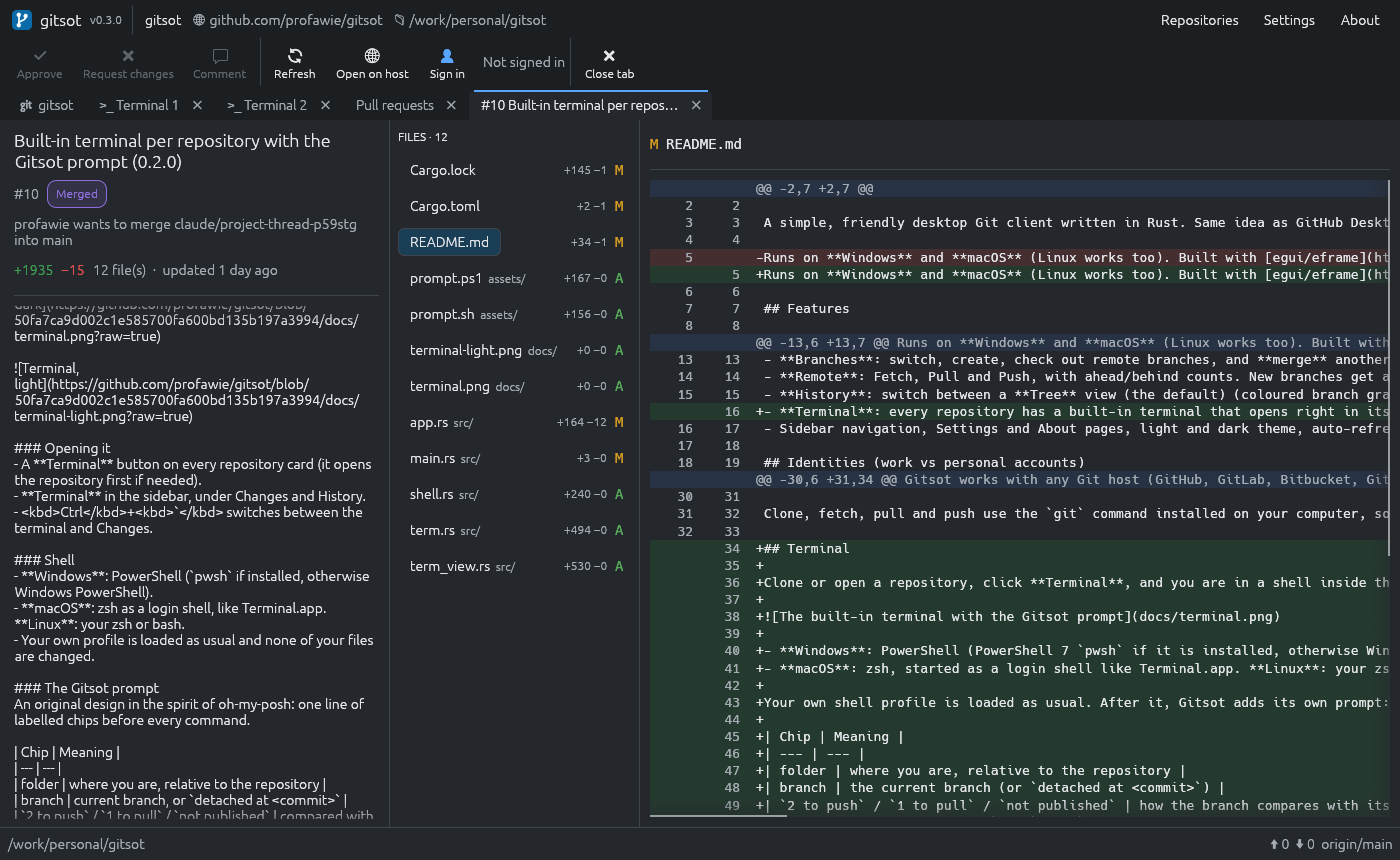
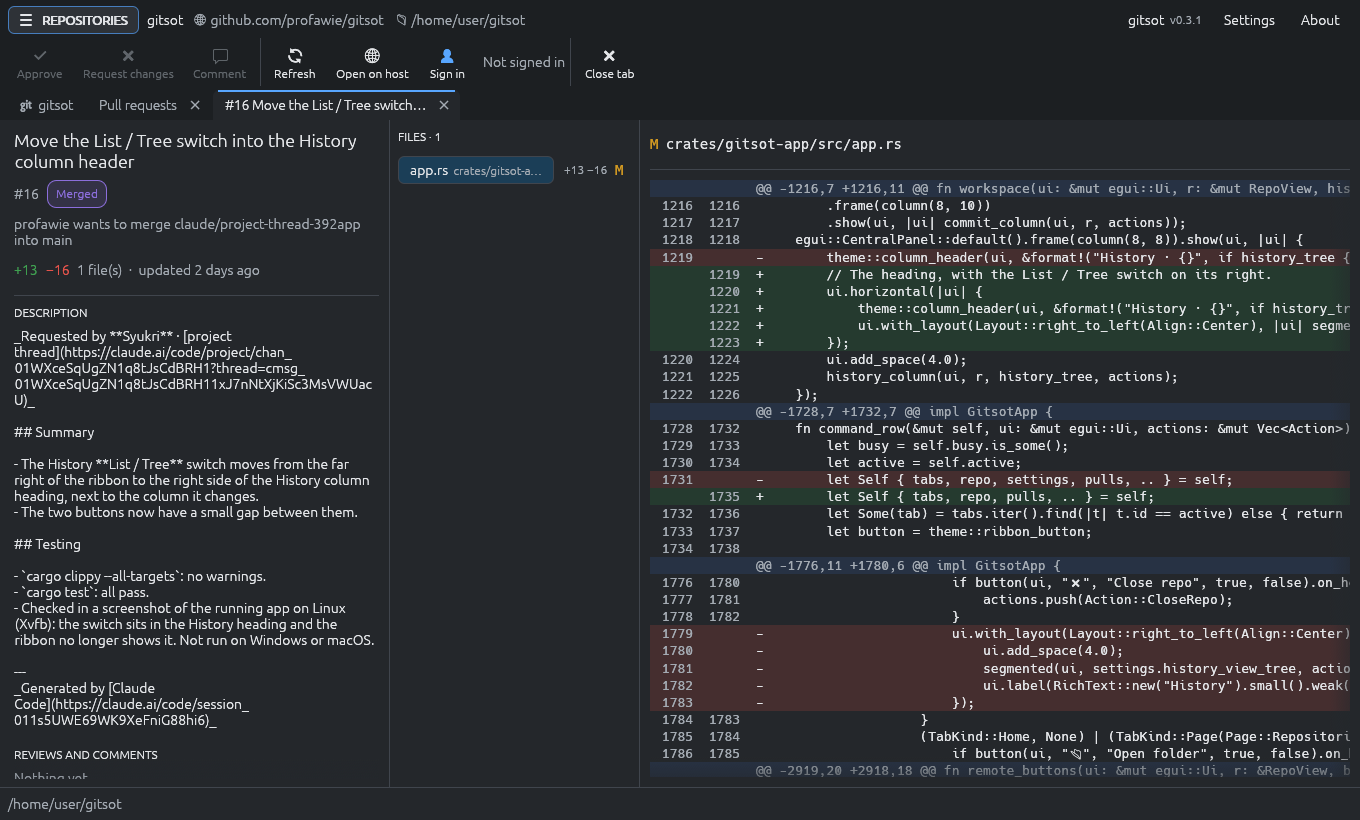
Polish the ribbon, card dragging and history hover (0.3.1)
- Dragging a repository card now carries the card itself: it lifts off
  the page with a shadow and follows the pointer from the spot it was
  taken by, while a faint copy stays behind. Every group is outlined as
  a place to drop it, and a line under the card says what dropping
  there does. Same behaviour as termker's host cards.
- The way to the repository list is now the first thing in the ribbon,
  a boxed REPOSITORIES button in capitals, filled while the list is
  shown. The app name and version moved to the right, where the
  Repositories link was. The ribbon no longer shows the logo.
- Resting the pointer on a commit in History (list or tree) shows its
  commit date and time, to the second.
- Screenshots in docs/ retaken with the new ribbon.

Claude-Session: https://claude.ai/code/session_011s5UWBhZub6QKxJaoEYJEa

diff --git a/crates/gitsot-app/src/app.rs b/crates/gitsot-app/src/app.rs
@@ -1337,7 +1337,7 @@ fn plural(n: i64, unit: &str) -> String {
 
 pub(crate) fn full_time(secs: i64) -> String {
     chrono::DateTime::from_timestamp(secs, 0)
-        .map(|t| t.with_timezone(&chrono::Local).format("%a %d %b %Y, %H:%M").to_string())
+        .map(|t| t.with_timezone(&chrono::Local).format("%a %d %b %Y, %H:%M:%S").to_string())
         .unwrap_or_default()
 }
 
@@ -1678,26 +1678,36 @@ impl GitsotApp {
             });
     }
 
-    /// Logo, version and what is open: the repository, where it comes from
-    /// and where it is on this computer.
+    /// The way to the repository list on the left, then what is open: the
+    /// repository, where it comes from and where it is on this computer.
+    /// The app's name and version are on the right.
     fn title_row(&mut self, ui: &mut egui::Ui, actions: &mut Vec<Action>) {
-        egui::Frame::new().inner_margin(egui::Margin { left: 12, right: 8, top: 6, bottom: 2 }).show(ui, |ui| {
+        let on_list = match self.tabs.iter().find(|t| t.id == self.active).map(|t| &t.kind) {
+            Some(TabKind::Home) => self.repo.is_none(),
+            Some(TabKind::Page(Page::Repositories)) => true,
+            _ => false,
+        };
+        egui::Frame::new().inner_margin(egui::Margin { left: 8, right: 8, top: 6, bottom: 2 }).show(ui, |ui| {
             ui.horizontal(|ui| {
                 ui.spacing_mut().item_spacing.x = 8.0;
-                theme::logo(ui, 20.0);
-                ui.label(RichText::new("gitsot").size(16.0).strong());
-                ui.label(RichText::new(format!("v{}", env!("CARGO_PKG_VERSION"))).small().weak());
+                if theme::repositories_button(ui, on_list).on_hover_text("All your repositories: open, clone, create and group them").clicked() {
+                    actions.push(Action::Show(Page::Repositories));
+                }
                 ui.with_layout(Layout::right_to_left(Align::Center), |ui| {
                     ui.spacing_mut().item_spacing.x = 2.0;
-                    for (label, page) in [("About", Page::About), ("Settings", Page::Settings), ("Repositories", Page::Repositories)] {
+                    for (label, page) in [("About", Page::About), ("Settings", Page::Settings)] {
                         if ui.add(egui::Button::new(label).frame_when_inactive(false)).clicked() {
                             actions.push(Action::Show(page));
                         }
                     }
                     ui.add_space(8.0);
+                    ui.label(RichText::new(format!("v{}", env!("CARGO_PKG_VERSION"))).small().weak());
+                    ui.add_space(4.0);
+                    ui.label(RichText::new("gitsot").strong());
+                    ui.add_space(12.0);
+                    ui.add_space(8.0);
                     ui.with_layout(Layout::left_to_right(Align::Center), |ui| {
                         ui.spacing_mut().item_spacing.x = 10.0;
-                        ui.separator();
                         let Some(r) = &self.repo else {
                             ui.label(RichText::new("No repository open").weak());
                             return;
@@ -2002,7 +2012,9 @@ impl GitsotApp {
             groups.retain(|(g, list)| !list.is_empty() || (filter.is_empty() && (!g.is_empty() || has_named)));
 
             egui::ScrollArea::vertical().auto_shrink(false).show(ui, |ui| {
-                let dragging = egui::DragAndDrop::has_payload_of_type::<CardDrag>(ui.ctx());
+                // Room for the outline of the first group while a card is dragged.
+                ui.add_space(6.0);
+                let dragged = egui::DragAndDrop::payload::<CardDrag>(ui.ctx());
                 let mut over_group: Option<String> = None;
                 for (group, list) in &groups {
                     let section = ui.scope(|ui| {
@@ -2069,10 +2081,11 @@ impl GitsotApp {
                                 for card in chunk {
                                     let is_current = current.as_ref() == Some(&card.path);
                                     let id = egui::Id::unique(("card-drag", &card.path));
-                                    if drag_area(ui, id) {
-                                        egui::DragAndDrop::set_payload(ui.ctx(), CardDrag(card.path.clone(), card.name.clone()));
+                                    if let Some(grab) = drag_area(ui, id) {
+                                        egui::DragAndDrop::set_payload(ui.ctx(), CardDrag { path: card.path.clone(), grab });
                                     }
-                                    let rect = repo_card(ui, card, is_current, card_w, actions);
+                                    let lifted = dragged.as_ref().is_some_and(|d| d.path == card.path);
+                                    let rect = repo_card(ui, card, is_current, lifted, card_w, actions);
                                     drag_area_drawn(ui, id, rect);
                                 }
                             });
@@ -2080,21 +2093,44 @@ impl GitsotApp {
                         }
                     });
                     let zone = section.response;
-                    // Highlight the group under the pointer while a card is dragged.
-                    if dragging && zone.contains_pointer() {
-                        over_group = Some(group.clone());
+                    // While a card is dragged every group is outlined as a place
+                    // to drop it, brighter under the pointer.
+                    if dragged.is_some() {
+                        let over = zone.contains_pointer();
+                        if over {
+                            over_group = Some(group.clone());
+                        }
                         let rect = zone.rect.expand(6.0);
                         let accent = theme::pal(ui).accent_text;
-                        ui.painter().rect_filled(rect, 8.0, accent.gamma_multiply(0.10));
-                        ui.painter().rect_stroke(rect, 8.0, Stroke::new(2.0, accent), egui::StrokeKind::Inside);
+                        if over {
+                            ui.painter().rect_filled(rect, 8.0, accent.gamma_multiply(0.10));
+                        }
+                        let stroke = if over { Stroke::new(2.0, accent) } else { Stroke::new(1.0, accent.gamma_multiply(0.5)) };
+                        ui.painter().rect_stroke(rect, 8.0, stroke, egui::StrokeKind::Inside);
                     }
                     if let Some(drop) = zone.dnd_release_payload::<CardDrag>() {
-                        actions.push(Action::SetGroup(drop.0.clone(), group.clone()));
+                        actions.push(Action::SetGroup(drop.path.clone(), group.clone()));
                     }
                     ui.add_space(8.0);
                 }
-                if let Some(drag) = egui::DragAndDrop::payload::<CardDrag>(ui.ctx()) {
-                    drag_chip(ui.ctx(), &drag.1, over_group.as_deref());
+                // The card itself comes along with the pointer.
+                if let Some(drag) = &dragged {
+                    if let Some(card) = self.cards.iter().find(|c| c.path == drag.path) {
+                        let from = self.settings.groups.get(&card.path).map(String::as_str).unwrap_or_default();
+                        let (hint, ok) = match over_group.as_deref() {
+                            Some(g) if g == from => ("Already here".to_string(), false),
+                            Some("") => ("Drop to ungroup".to_string(), true),
+                            Some(g) => (format!("Drop to move to {g}"), true),
+                            None => ("Drop on a group".to_string(), false),
+                        };
+                        let is_current = current.as_ref() == Some(&card.path);
+                        // Nothing in the copy can be clicked, so what it asks for is dropped.
+                        let mut ignored = Vec::new();
+                        drag_float(ui.ctx(), drag.grab, &hint, ok, |ui| {
+                            ui.style_mut().interaction.selectable_labels = false;
+                            repo_card_body(ui, card, is_current, card_w, &mut ignored);
+                        });
+                    }
                 }
             });
         });
@@ -2721,59 +2757,117 @@ fn page_frame(ui: &mut egui::Ui, add: impl FnOnce(&mut egui::Ui)) {
         });
 }
 
-/// Drag-and-drop payload: the repository card being moved.
-struct CardDrag(PathBuf, String);
+/// Drag-and-drop payload: the repository card being moved and how it was
+/// picked up.
+struct CardDrag {
+    path: PathBuf,
+    grab: Grab,
+}
+
+/// How a card was picked up, kept while it is dragged so its copy under the
+/// pointer stays where the hand took hold of it.
+#[derive(Clone, Copy)]
+struct Grab {
+    /// From the top left corner of the card to the pointer.
+    offset: Vec2,
+    /// Size of the card where it lies.
+    size: Vec2,
+    /// When it was picked up, in egui's clock.
+    at: f64,
+}
 
 /// Makes an area draggable without taking clicks away from the buttons drawn
 /// in it. Call before drawing the area, then [`drag_area_drawn`] with the space
 /// it took. The drag is registered *before* the content so the buttons end up
 /// on top of it; where the content was is remembered from the last frame.
-/// Returns `true` in the frame a drag starts.
-fn drag_area(ui: &mut egui::Ui, id: egui::Id) -> bool {
-    let Some(rect) = ui.data(|d| d.get_temp::<egui::Rect>(id)) else { return false };
-    ui.interact(rect, id, Sense::drag()).drag_started()
+/// Returns how it was picked up in the frame a drag starts.
+fn drag_area(ui: &mut egui::Ui, id: egui::Id) -> Option<Grab> {
+    let rect = ui.data(|d| d.get_temp::<egui::Rect>(id))?;
+    if !ui.interact(rect, id, Sense::drag()).drag_started() {
+        return None;
+    }
+    let (pressed, at) = ui.input(|i| (i.pointer.press_origin(), i.time));
+    Some(Grab { offset: pressed.unwrap_or(rect.center()) - rect.min, size: rect.size(), at })
 }
 
 fn drag_area_drawn(ui: &egui::Ui, id: egui::Id, rect: egui::Rect) {
     ui.data_mut(|d| d.insert_temp(id, rect));
 }
 
-/// While a card is dragged: its name in a small box next to the pointer.
-fn drag_chip(ctx: &egui::Context, name: &str, over_group: Option<&str>) {
+/// Seconds a card takes to rise off the page once it is picked up.
+const LIFT_TIME: f64 = 0.12;
+/// How much of a card stays visible where it lies while its copy is dragged.
+const DRAGGED_OPACITY: f32 = 0.3;
+
+/// The dragged card itself, lifted off the page: it follows the pointer from
+/// the spot it was taken by, a little larger and with a shadow under it.
+/// `content` draws the inside of the card. A line under the card says what
+/// dropping here does; `ok` is false when dropping here changes nothing.
+fn drag_float(ctx: &egui::Context, grab: Grab, hint: &str, ok: bool, content: impl FnOnce(&mut egui::Ui)) {
     let Some(pointer) = ctx.pointer_latest_pos() else { return };
     ctx.set_cursor_icon(egui::CursorIcon::Grabbing);
-    egui::Area::new(egui::Id::unique("gitsot-drag-chip"))
+    // 0 on the page, 1 fully lifted.
+    let lift = (((ctx.input(|i| i.time) - grab.at) / LIFT_TIME) as f32).clamp(0.0, 1.0);
+    if lift < 1.0 {
+        ctx.request_repaint();
+    }
+    let dark = ctx.global_style().visuals.dark_mode;
+    let shadow = egui::Shadow {
+        offset: [0, (10.0 * lift) as i8],
+        blur: (28.0 * lift) as u8,
+        spread: 0,
+        color: Color32::from_black_alpha(if dark { 150 } else { 70 }),
+    };
+    let area = egui::Area::new(egui::Id::unique("gitsot-drag-float"))
         .order(egui::Order::Tooltip)
-        .fixed_pos(pointer + Vec2::new(14.0, 14.0))
+        .fixed_pos(pointer - grab.offset - Vec2::new(0.0, 3.0 * lift))
         .interactable(false)
         .show(ctx, |ui| {
             let p = theme::pal(ui);
+            ui.spacing_mut().item_spacing.y = 8.0;
+            let frame = theme::card_frame(ui, true).shadow(shadow);
+            let margin = frame.inner_margin.sum();
+            frame.show(ui, |ui| {
+                ui.set_width(grab.size.x - margin.x);
+                ui.set_min_height(grab.size.y - margin.y);
+                content(ui);
+            });
+            let (fill, text) = if ok { (p.accent, Color32::WHITE) } else { (p.panel, p.text_dim) };
             egui::Frame::new()
-                .fill(p.surface)
-                .stroke(Stroke::new(1.0, p.accent_text))
-                .corner_radius(6)
-                .inner_margin(egui::Margin::symmetric(10, 6))
+                .fill(fill)
+                .stroke(Stroke::new(1.0, if ok { p.accent } else { p.border }))
+                .corner_radius(10)
+                .inner_margin(egui::Margin::symmetric(10, 3))
                 .show(ui, |ui| {
-                    ui.spacing_mut().item_spacing.y = 2.0;
-                    ui.add(egui::Label::new(RichText::new(name).strong()).extend());
-                    let hint = match over_group {
-                        Some("") => "Drop to ungroup".to_string(),
-                        Some(g) => format!("Drop to move to {g}"),
-                        None => "Drop on a group".to_string(),
-                    };
-                    ui.add(egui::Label::new(RichText::new(hint).small().color(p.accent_text)).extend());
+                    ui.add(egui::Label::new(RichText::new(hint).small().color(text)).extend());
                 });
         });
+    // Grown around the pointer, so the spot it is held by does not move.
+    let scale = 1.0 + 0.03 * lift;
+    ctx.set_transform_layer(
+        area.response.layer_id,
+        egui::emath::TSTransform::from_translation(pointer.to_vec2())
+            * egui::emath::TSTransform::from_scaling(scale)
+            * egui::emath::TSTransform::from_translation(-pointer.to_vec2()),
+    );
 }
 
 /// Draws a repository card and returns the space it took.
-fn repo_card(ui: &mut egui::Ui, card: &RepoCard, is_current: bool, width: f32, actions: &mut Vec<Action>) -> egui::Rect {
-    theme::card_frame(ui, is_current).show(ui, |ui| {
-        ui.style_mut().interaction.selectable_labels = false;
-        ui.with_layout(Layout::top_down(Align::Min), |ui| repo_card_body(ui, card, is_current, width, actions));
+/// `lifted` leaves only a faint copy, while the card is carried around.
+fn repo_card(ui: &mut egui::Ui, card: &RepoCard, is_current: bool, lifted: bool, width: f32, actions: &mut Vec<Action>) -> egui::Rect {
+    ui.scope(|ui| {
+        if lifted {
+            ui.set_opacity(DRAGGED_OPACITY);
+        }
+        theme::card_frame(ui, is_current)
+            .show(ui, |ui| {
+                ui.style_mut().interaction.selectable_labels = false;
+                ui.with_layout(Layout::top_down(Align::Min), |ui| repo_card_body(ui, card, is_current, width, actions));
+            })
+            .response
+            .rect
     })
-    .response
-    .rect
+    .inner
 }
 
 fn repo_card_body(ui: &mut egui::Ui, card: &RepoCard, is_current: bool, width: f32, actions: &mut Vec<Action>) {
@@ -3195,6 +3289,9 @@ fn history_column(ui: &mut egui::Ui, r: &mut RepoView, tree: bool, actions: &mut
             let c = &r.history[i];
             let selected = r.selected_commit == Some(c.id);
             let (rect, resp) = ui.allocate_exact_size(Vec2::new(ui.available_width(), row_h), Sense::click());
+            let resp = resp.on_hover_ui_at_pointer(|ui| {
+                ui.label(format!("Commit date: {}", full_time(c.time)));
+            });
             let visuals = ui.visuals().clone();
             if selected {
                 ui.painter().rect_filled(rect, 4.0, visuals.selection.bg_fill.gamma_multiply(if tree { 0.35 } else { 1.0 }));

diff --git a/crates/gitsot-app/src/theme.rs b/crates/gitsot-app/src/theme.rs
@@ -211,6 +211,37 @@ pub fn primary_wide(ui: &mut Ui, enabled: bool, text: impl Into<String>, height:
     })
 }
 
+/// The way to the repository list, first thing in the ribbon: capitals in a
+/// box so it is not overlooked, filled while the list is what is shown.
+pub fn repositories_button(ui: &mut Ui, active: bool) -> Response {
+    let p = pal(ui);
+    let font = FontId::proportional(13.0);
+    let text = ui.painter().layout_no_wrap("REPOSITORIES".to_owned(), font, p.text);
+    // Room for the three-card mark in front of the word.
+    let size = Vec2::new(text.size().x + 46.0, 28.0);
+    let (rect, response) = ui.allocate_exact_size(size, Sense::click());
+    let response = response.on_hover_cursor(egui::CursorIcon::PointingHand);
+    let hot = response.hovered() || response.is_pointer_button_down_on();
+    let (fill, stroke, color) = match (active, hot) {
+        (true, _) => (p.accent, p.accent, Color32::WHITE),
+        (false, true) => (p.accent.gamma_multiply(0.25), p.accent_text, p.text),
+        (false, false) => (p.surface, p.accent_text.gamma_multiply(0.7), p.text),
+    };
+    let painter = ui.painter();
+    painter.rect(rect, 6.0, fill, Stroke::new(1.0, stroke), egui::StrokeKind::Inside);
+    // A small stack of cards: the list of repositories.
+    let left = rect.left() + 12.0;
+    for dy in [-5.0, 0.0, 5.0] {
+        let bar = egui::Rect::from_min_size(Pos2::new(left, rect.center().y + dy - 1.25), Vec2::new(12.0, 2.5));
+        painter.rect_filled(bar, 1.0, color);
+    }
+    let pos = Pos2::new(left + 22.0, rect.center().y - text.size().y / 2.0);
+    // Drawn twice, half a point apart, for a bold look in a font with no bold face.
+    painter.galley_with_override_text_color(pos, text.clone(), color);
+    painter.galley_with_override_text_color(pos + Vec2::new(0.5, 0.0), text, color);
+    response
+}
+
 /// A ribbon command: an icon with its name under it. `accent` draws the
 /// icon in the accent colour, for the action that is waiting to be done.
 pub fn ribbon_button(ui: &mut Ui, icon: &str, label: &str, enabled: bool, accent: bool) -> Response {

diff --git a/README.md b/README.md
@@ -8,17 +8,17 @@ Runs on **Windows** and **macOS** (Linux works too). Built with [egui/eframe](ht
 
 ![Changes, history and the selected commit side by side](docs/workspace.png)
 
-- **One window, tabs and a ribbon**: there is no sidebar. The ribbon at the top shows the logo and version, the open repository with **where it comes from** (the remote) and **its folder**, and the buttons of the tab you are looking at. Under it is the tab strip.
+- **One window, tabs and a ribbon**: there is no sidebar. The ribbon at the top starts with the **REPOSITORIES** button (your list of repositories), then shows the open repository with **where it comes from** (the remote) and **its folder**, and the buttons of the tab you are looking at. The app name and version are on the right, next to Settings and About. Under it is the tab strip.
 - **The first tab** is pinned and shows three columns: **Changes**, **History** and the selected **Commit**. No switching back and forth between changes and history.
 - **Changes**: tick the files to include (stage), untick to unstage. Click a file and its coloured diff opens in **its own tab**, with *Stage*, *Discard* and *Copy path* in the ribbon. Close it with the × on the tab, the middle mouse button or <kbd>Ctrl</kbd>/<kbd>Cmd</kbd>+<kbd>W</kbd>. The tab closes by itself once the file is committed.
 - **Commit**: summary + description, then *Commit to &lt;branch&gt;* (or <kbd>Ctrl</kbd>/<kbd>Cmd</kbd>+<kbd>Enter</kbd>). If your Git name/email are not set, Gitsot asks for them once.
 - **Discard**: right-click a file (or *Discard all…*) to throw away changes, with a confirmation.
 - **Branches**: switch, create, check out remote branches, and **merge** another branch into the current one (*Merge* in the ribbon). If a merge has conflicts, the files are marked `!` in Changes; fix them and commit, or *Abort merge*. Delete local or remote branches with the bin icon in the branch menu (never the branch you are on).
 - **Remote**: Fetch, Pull and Push, with ahead/behind counts. New branches get a *Publish branch* button.
-- **History**: switch between a **Tree** view (the default) (coloured branch graph with branch, remote and tag labels) and a simple **List**. The third column shows the selected commit, its files and a diff; double-click a file to open it in a tab.
+- **History**: switch between a **Tree** view (the default) (coloured branch graph with branch, remote and tag labels) and a simple **List**. Rest the pointer on a commit to see its **commit date and time**. The third column shows the selected commit, its files and a diff; double-click a file to open it in a tab.
 - **Terminal**: *Terminal* in the ribbon starts a shell in the repository folder, in a new tab. Click it again for **another session in another tab**. See [Terminal](#terminal) below.
 - **Pull requests**: list them, read the description, files and reviews, then **approve**, **request changes** (reject) or **comment**, each pull request in its own tab. See [Pull requests](#pull-requests) below.
-- **Repositories**: your repositories as cards showing the branch, host and the **name/email that commits will use**. Organise them into **groups**: click *New group*, then drag cards onto a group (or use the card menu ☰ → *Move to group…*). Rename or delete a group with the pencil and bin icons next to its name, and click its name to fold it. Open a local folder, clone from a URL, or create a new one.
+- **Repositories**: your repositories as cards showing the branch, host and the **name/email that commits will use**. Organise them into **groups**: click *New group*, then drag cards onto a group: the card lifts off the page and follows the pointer, and a line under it says what dropping there does (or use the card menu ☰ → *Move to group…*). Rename or delete a group with the pencil and bin icons next to its name, and click its name to fold it. Open a local folder, clone from a URL, or create a new one.
 - Settings and About pages (top right), light and dark theme, auto-refresh when the window regains focus, <kbd>F5</kbd> to refresh.
 
 ## Identities (work vs personal accounts)
